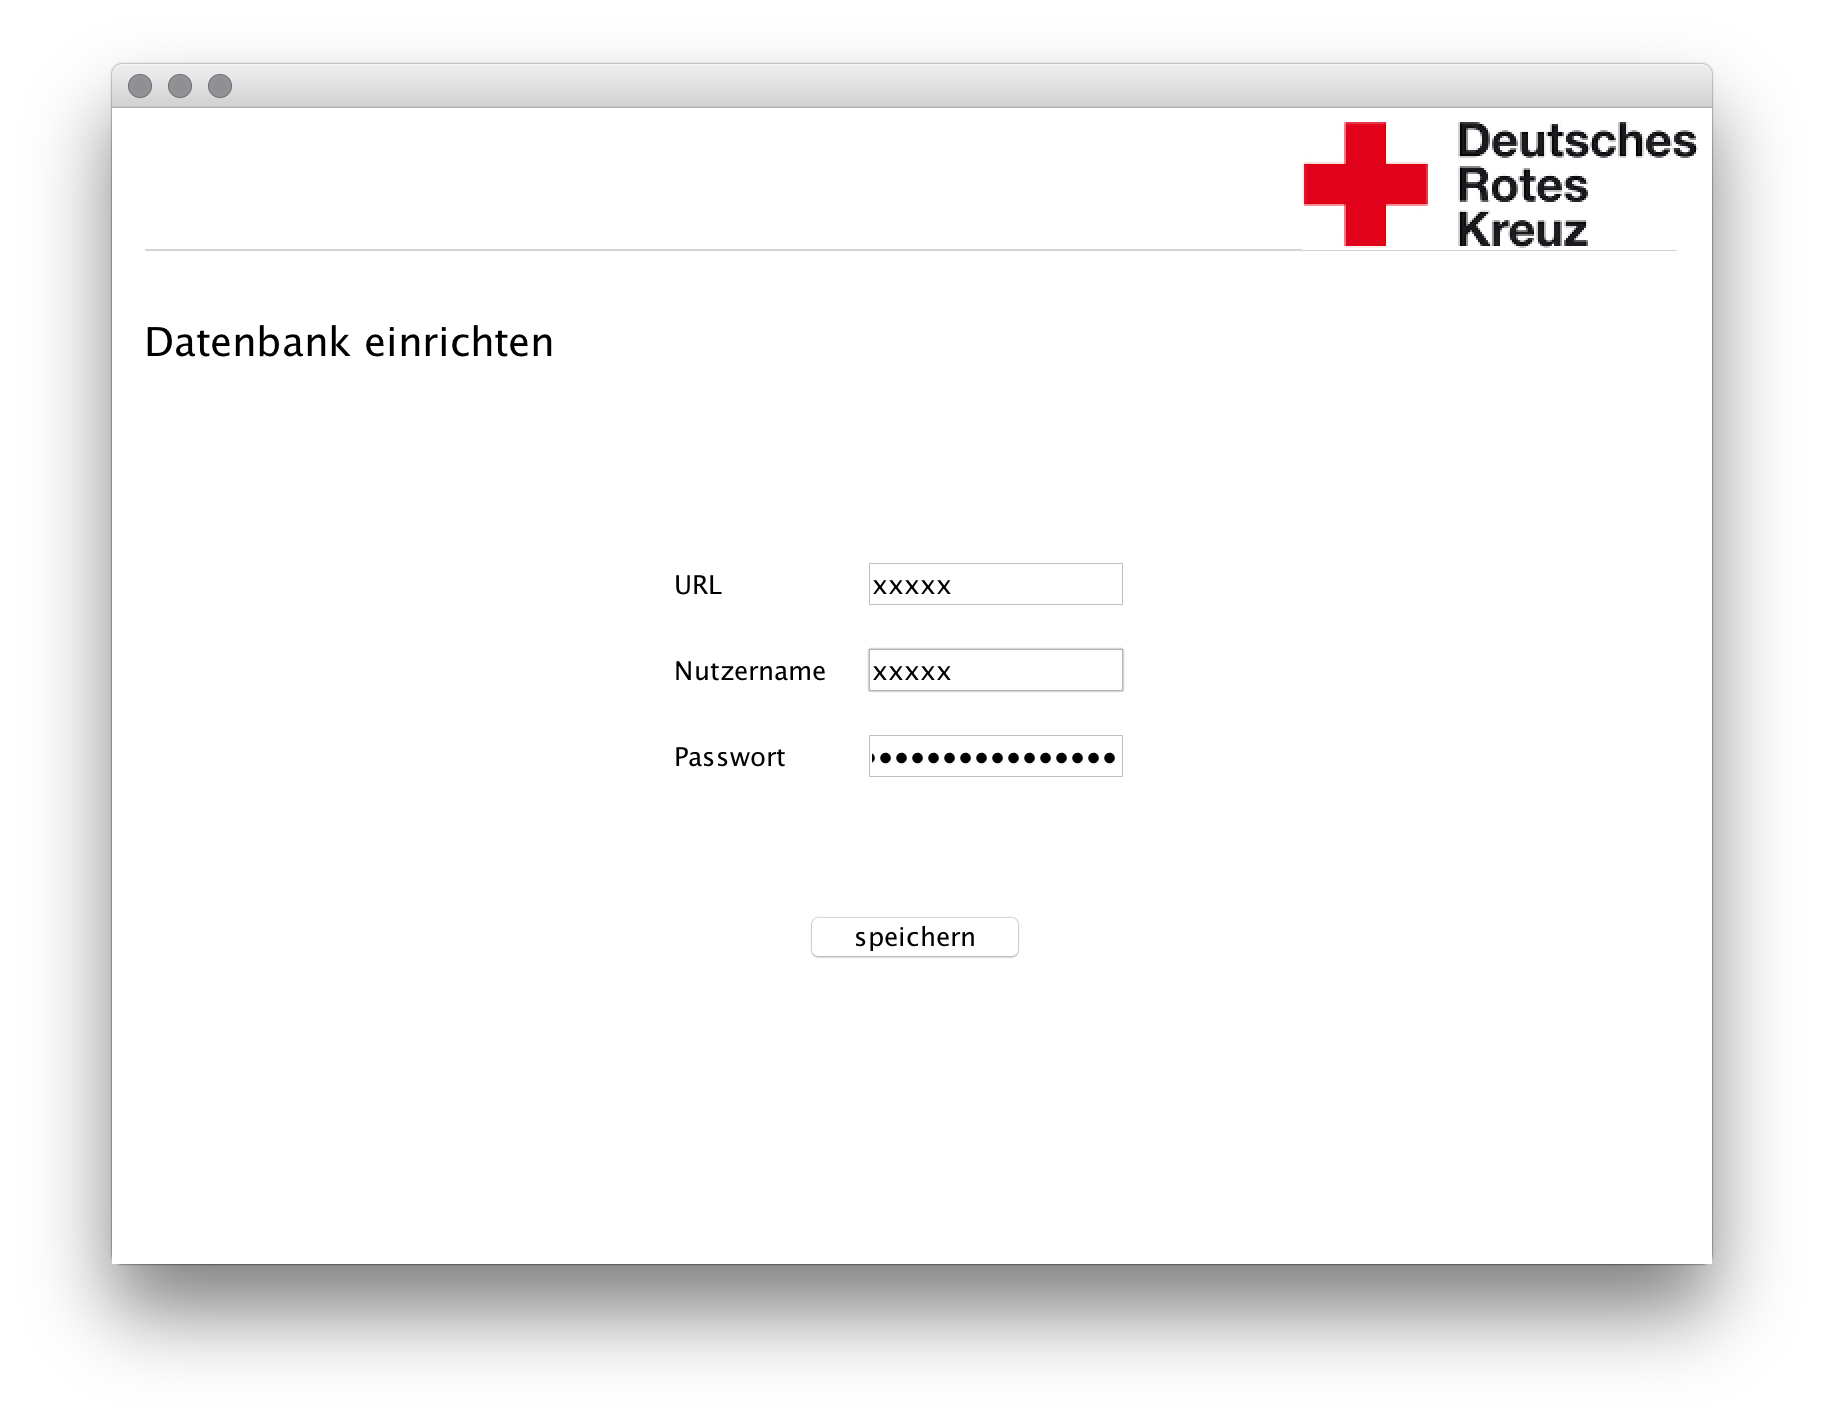
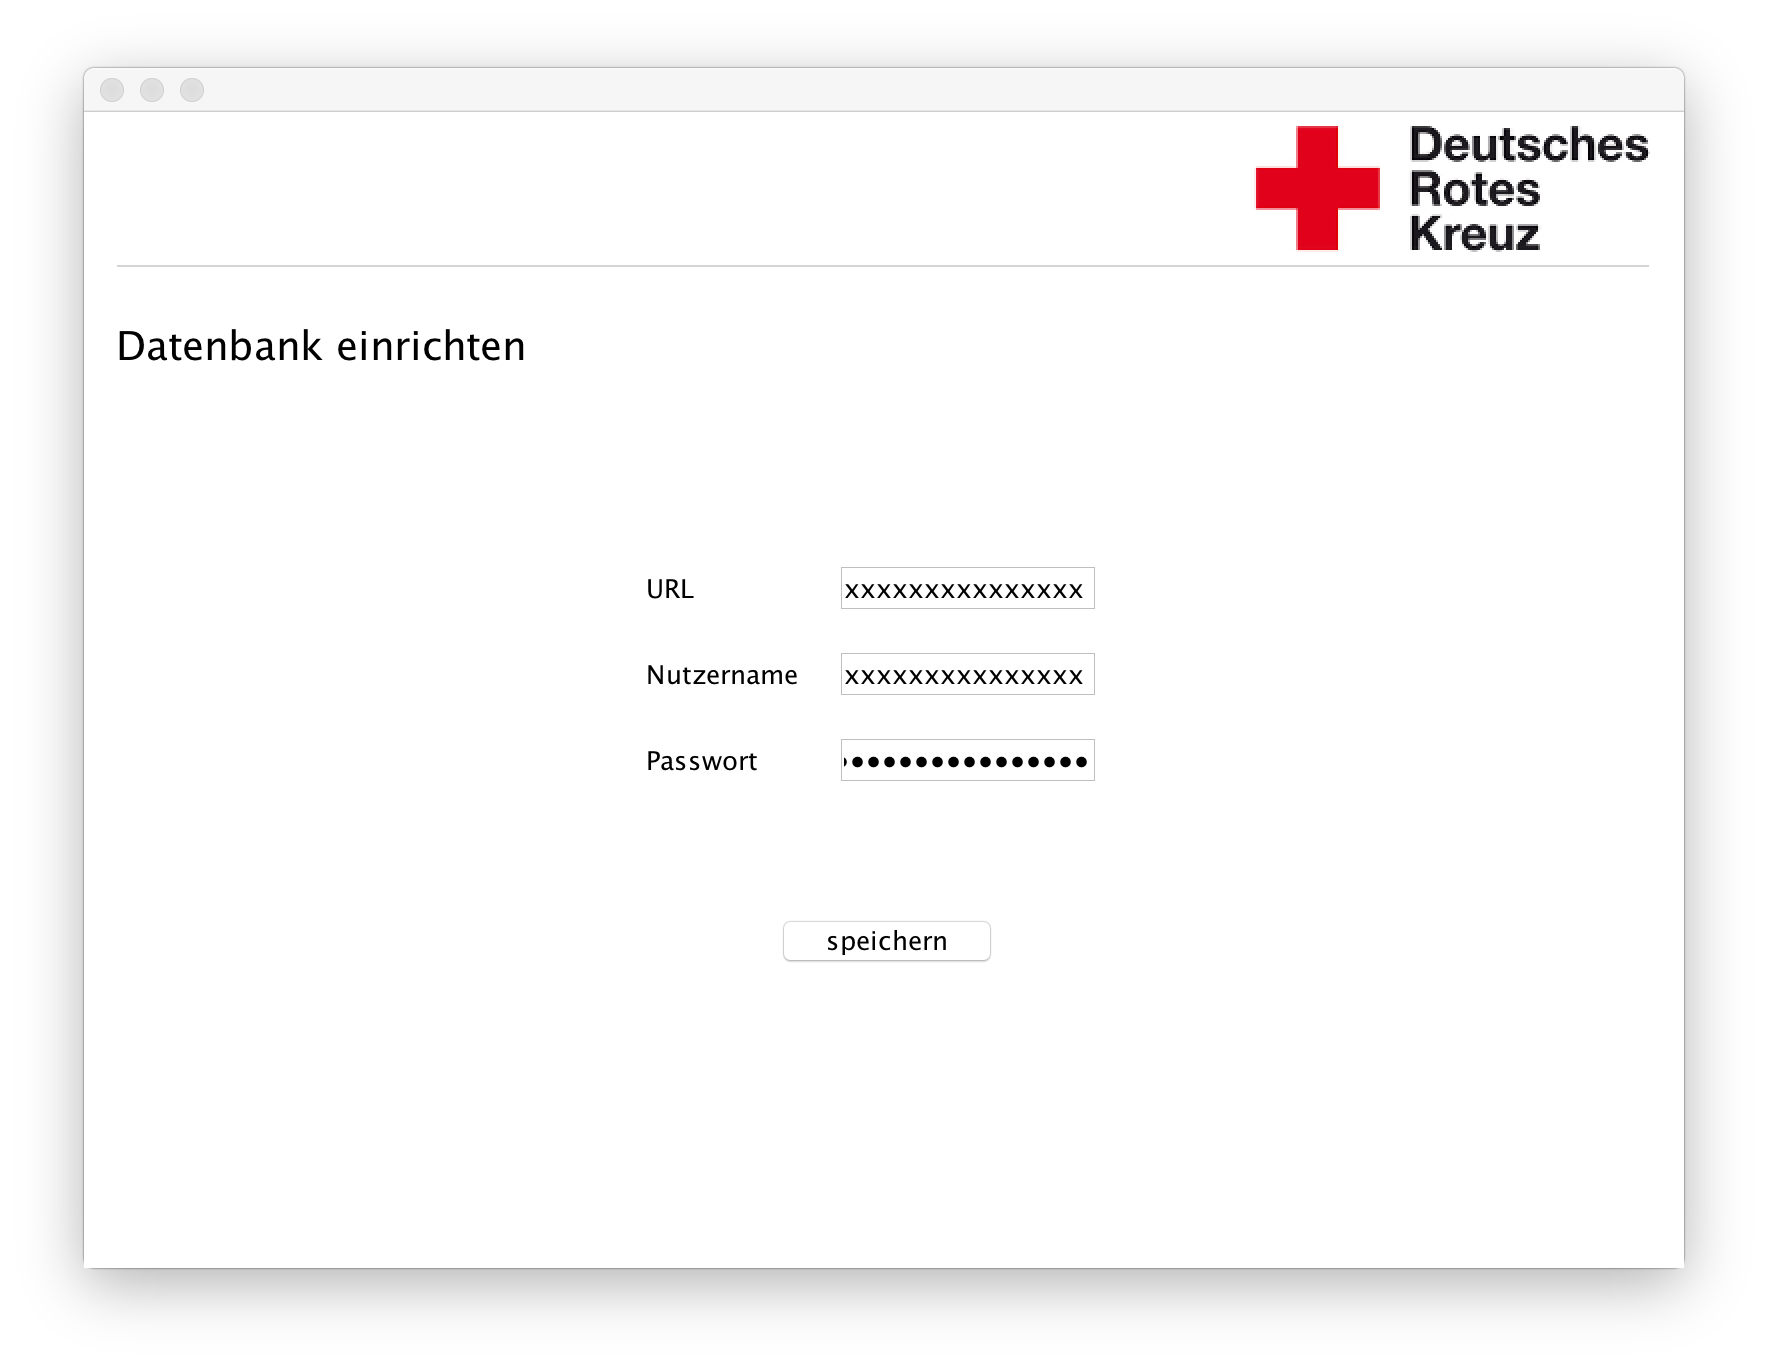
SetupPresenter using Presenter Attributes for Layout

diff --git a/eclipse/src/presenter/onboarding/SetupPresenter.java b/eclipse/src/presenter/onboarding/SetupPresenter.java
@@ -37,54 +37,53 @@ public class SetupPresenter extends Presenter {
 	public void initialize() {
 		super.initialize();
 
-		logo.addActionListener(this);
+		this.logo = new JButton("");
 		Image img = new ImageIcon (this.getClass().getResource("/img/DRK-LogoMini.jpg")).getImage();
-		logo.setIcon (new ImageIcon (img));
-		logo.setBounds(595, 6, 199, 65);
-		frame.getContentPane().add(logo);
+		this.logo.setIcon (new ImageIcon (img));
+		this.logo.setBounds(logoX, topPadding, logoWidth, logoHeight);
+		this.frame.getContentPane().add(this.logo);
+		this.logo.addActionListener(this);
+
+		this.separator = new JSeparator();
+		this.separator.setBounds(leftPadding, topPadding+logoHeight+1, (width - leftPadding - rightPadding), smallSpacing);
+		this.frame.getContentPane().add(this.separator);
 
 		this.btnSpeichern = new JButton("speichern");
 		this.btnSpeichern.setBounds(343, 401, 117, 29);
 		this.btnSpeichern.addActionListener(this);
 		this.frame.getContentPane().add(this.btnSpeichern);
-		Image imgback = new ImageIcon (this.getClass().getResource("/img/back-button.jpg")).getImage();
-		Image imgbook = new ImageIcon (this.getClass().getResource("/img/book-button.jpg")).getImage();
-		
-		JSeparator separator = new JSeparator();
-		separator.setBounds(leftPadding, 66, (width - leftPadding - rightPadding), 12);
-		frame.getContentPane().add(separator);
 		
 		JLabel lblUrl = new JLabel("URL");
 		lblUrl.setBounds(281, 230, 61, 16);
-		frame.getContentPane().add(lblUrl);
+		this.frame.getContentPane().add(lblUrl);
 		
 		JLabel lblNutzername = new JLabel("Nutzername");
 		lblNutzername.setBounds(281, 273, 82, 16);
-		frame.getContentPane().add(lblNutzername);
+		this.frame.getContentPane().add(lblNutzername);
 		
 		JLabel lblPasswort = new JLabel("Passwort");
 		lblPasswort.setBounds(281, 316, 61, 16);
-		frame.getContentPane().add(lblPasswort);
+		this.frame.getContentPane().add(lblPasswort);
 
-		urlTextField = new JTextField();
-		urlTextField.setBounds(375, 224, 134, 28);
-		frame.getContentPane().add(urlTextField);
-		urlTextField.setColumns(10);
-		
-		usernameTextField = new JTextField();
-		usernameTextField.setBounds(375, 267, 134, 28);
-		frame.getContentPane().add(usernameTextField);
-		usernameTextField.setColumns(10);
-		
-		passwordTextField = new JPasswordField();
-		passwordTextField.setBounds(375, 310, 134, 28);
-		frame.getContentPane().add(passwordTextField);
-		passwordTextField.setColumns(10);
+		this.urlTextField = new JTextField();
+		this.urlTextField.setBounds(375, 224, 134, 28);
+		this.frame.getContentPane().add(this.urlTextField);
+		this.urlTextField.setColumns(10);
+
+		this.usernameTextField = new JTextField();
+		this.usernameTextField.setBounds(375, 267, 134, 28);
+		this.frame.getContentPane().add(this.usernameTextField);
+		this.usernameTextField.setColumns(10);
+
+		this.passwordTextField = new JPasswordField();
+		this.passwordTextField.setBounds(375, 310, 134, 28);
+		this.frame.getContentPane().add(this.passwordTextField);
+		this.passwordTextField.setColumns(10);
 		
 		JLabel databaseLabel = new JLabel("Datenbank einrichten");
 		databaseLabel.setFont(new Font("Lucida Grande", Font.PLAIN, 20));
 		databaseLabel.setBounds(16, 98, 247, 36);
-		frame.getContentPane().add(databaseLabel);
+		this.frame.getContentPane().add(databaseLabel);
 	}
 
 	@Override
